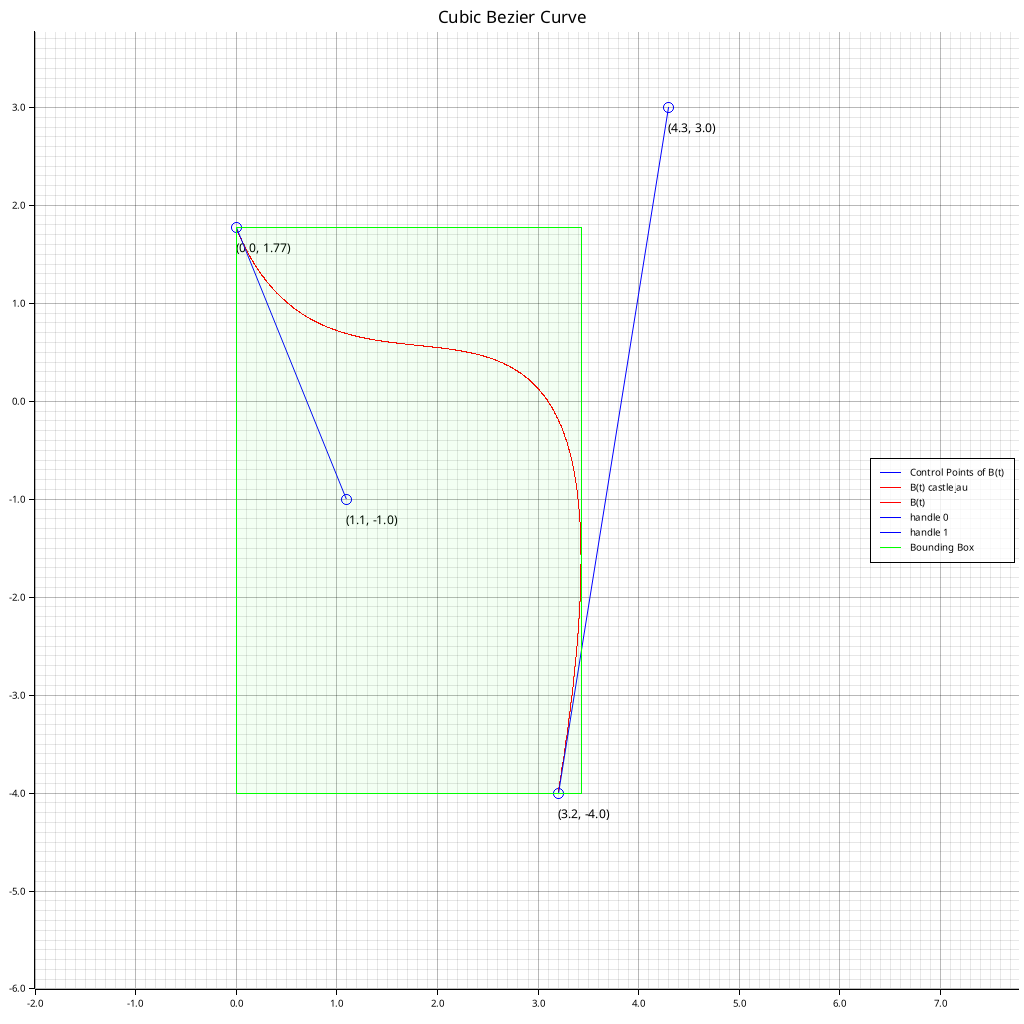
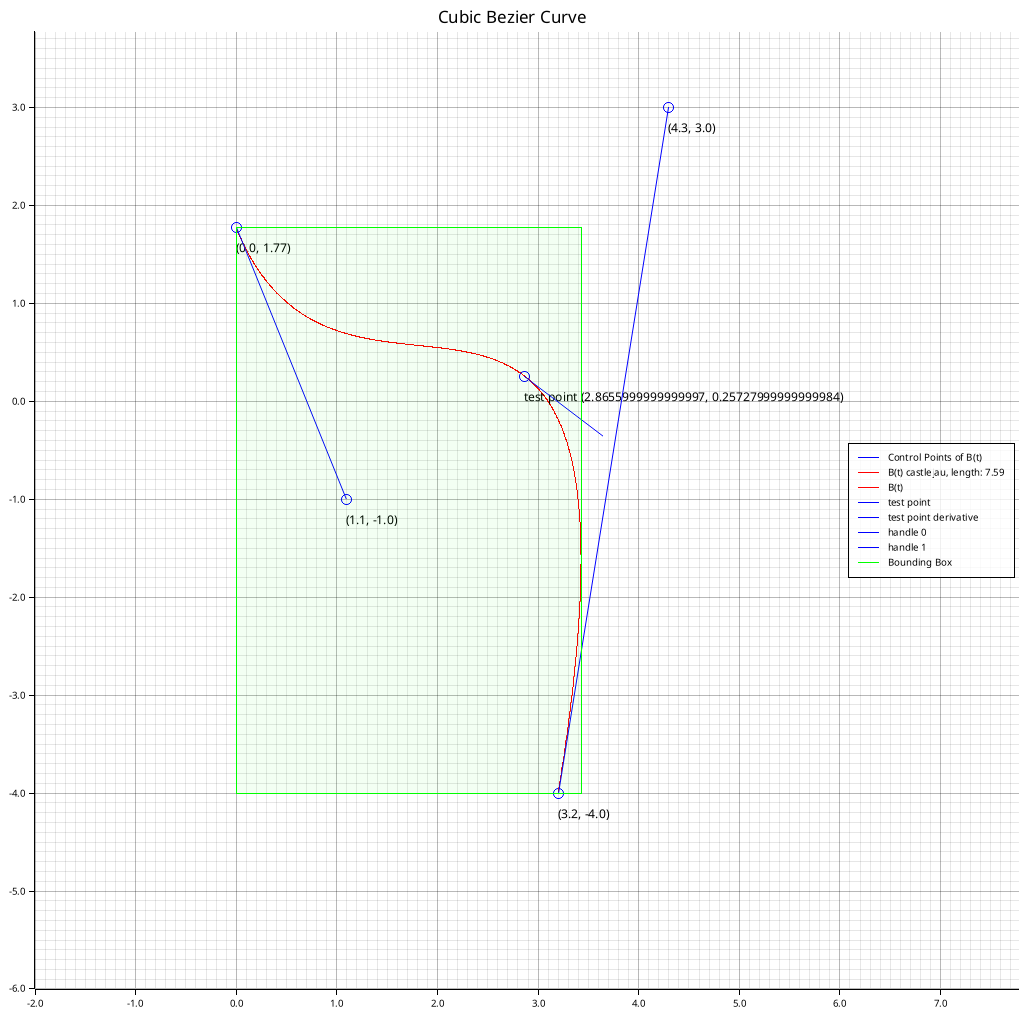
visualize the tangent to a test point on the example bezier curve

Changed region(s): [[0.8438, 0.4375, 1.0, 0.5625], [0.5, 0.375, 0.8125, 0.4062]]

diff --git a/examples/plotters_cubic_bezier.rs b/examples/plotters_cubic_bezier.rs
@@ -43,6 +43,16 @@ fn main() -> Result<(), Box<dyn std::error::Error>> {
         bezier_graph_reg.push((p.axis(0), p.axis(1)));
     }
 
+    let test_t = 0.6;
+    let test_point = bezier.eval(test_t);
+    // TODO(lucasw) make this a bezier function
+    let derivative_test_point = bezier.derivative().eval(test_t);
+    let d_len = derivative_test_point.squared_length().sqrt();
+    let (tangent_x, tangent_y) = (
+        derivative_test_point.axis(0) / d_len,
+        derivative_test_point.axis(1) / d_len,
+    );
+
     let root =
         BitMapBackend::new("cubic_bezier_bounding_box.png", (1024, 1024)).into_drawing_area();
     root.fill(&WHITE)?;
@@ -59,6 +69,10 @@ fn main() -> Result<(), Box<dyn std::error::Error>> {
         )?; // make graph a bit bigger than bounding box
 
     chart.configure_mesh().draw()?;
+
+    fn legend_pt(x: i32, y: i32) -> Vec<(i32, i32)> {
+        vec![(x, y), (x + 20, y)]
+    }
 
     // draw the control points of B(t)
     chart
@@ -77,28 +91,60 @@ fn main() -> Result<(), Box<dyn std::error::Error>> {
             },
         ))?
         .label("Control Points of B(t)")
-        .legend(|(x, y)| PathElement::new(vec![(x, y), (x + 20, y)], BLUE));
+        .legend(|(x, y)| PathElement::new(legend_pt(x, y), BLUE));
 
     // draw the actual bezier curve
     chart
         .draw_series(LineSeries::new(bezier_graph, &RED))?
-        .label("B(t) castlejau")
-        .legend(|(x, y)| PathElement::new(vec![(x, y), (x + 20, y)], RED));
+        .label(format!("B(t) castlejau, length: {:.2}", bezier.arclen(32)))
+        .legend(|(x, y)| PathElement::new(legend_pt(x, y), RED));
 
     chart
         .draw_series(LineSeries::new(bezier_graph_reg, &RED))?
         .label("B(t)")
-        .legend(|(x, y)| PathElement::new(vec![(x, y), (x + 20, y)], RED));
+        .legend(|(x, y)| PathElement::new(legend_pt(x, y), RED));
+
+    chart
+        .draw_series(PointSeries::of_element(
+            [(test_point.axis(0), test_point.axis(1))],
+            5,
+            &BLUE,
+            &|coord, size, style| {
+                EmptyElement::at(coord)
+                    + Circle::new((0, 0), size, style)
+                    + Text::new(
+                        format!("test point {:?}", coord),
+                        (0, 15),
+                        ("sans-serif", 15).into_font(),
+                    )
+            },
+        ))?
+        .label("test point")
+        .legend(|(x, y)| PathElement::new(legend_pt(x, y), BLUE));
+
+    chart
+        .draw_series(LineSeries::new(
+            [
+                (test_point.axis(0), test_point.axis(1)),
+                (
+                    test_point.axis(0) + tangent_x,
+                    test_point.axis(1) + tangent_y,
+                ),
+            ],
+            &BLUE,
+        ))?
+        .label("test point derivative")
+        .legend(|(x, y)| PathElement::new(legend_pt(x, y), BLUE));
 
     chart
         .draw_series(LineSeries::new([cpoints[0], cpoints[1]], &BLUE))?
         .label("handle 0")
-        .legend(|(x, y)| PathElement::new(vec![(x, y), (x + 20, y)], BLUE));
+        .legend(|(x, y)| PathElement::new(legend_pt(x, y), BLUE));
 
     chart
         .draw_series(LineSeries::new([cpoints[3], cpoints[2]], &BLUE))?
         .label("handle 1")
-        .legend(|(x, y)| PathElement::new(vec![(x, y), (x + 20, y)], BLUE));
+        .legend(|(x, y)| PathElement::new(legend_pt(x, y), BLUE));
 
     // draw the bounding box
     chart
@@ -117,7 +163,7 @@ fn main() -> Result<(), Box<dyn std::error::Error>> {
             .border_style(GREEN),
         )?
         .label("Bounding Box")
-        .legend(|(x, y)| PathElement::new(vec![(x, y), (x + 20, y)], GREEN));
+        .legend(|(x, y)| PathElement::new(legend_pt(x, y), GREEN));
 
     chart
         .configure_series_labels()
